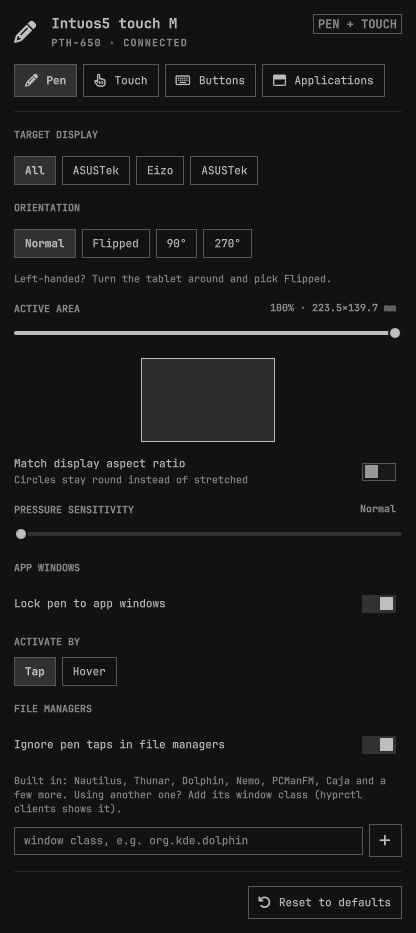
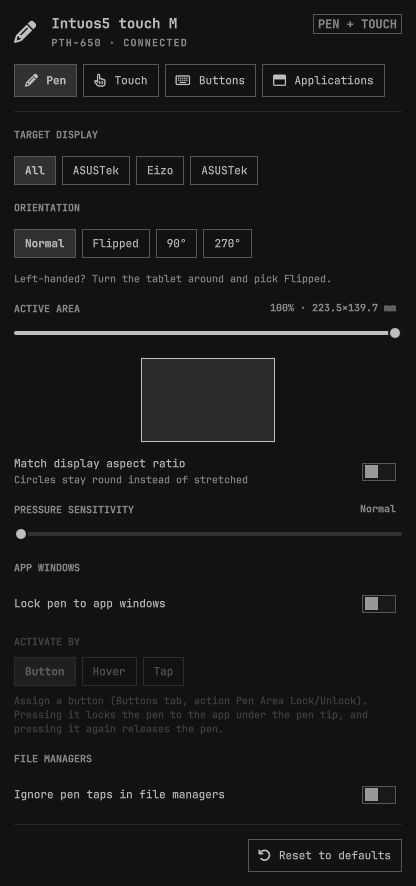
README: Button, Hover and Tap modes, new screenshots, 0.4.0 text

diff --git a/README.md b/README.md
@@ -51,8 +51,8 @@ alt="Applications tab" width="180"></a><br>
   a scale preview, crop to the display's aspect ratio so circles stay round,
   pressure sensitivity.
 - **Orientation** – *Flipped* turns the pen, finger touch and the key order
-  around for left-handed use (libinput's left-handed mode). 90° and 270° turn
-  the pen only.
+  around for left-handed use. *90°* and *270°* hold the tablet portrait: pen,
+  finger touch and key order all turn with it, and palm rejection keeps working.
 - **Touch** – finger touch on/off (handy while drawing), pointer speed, tap to
   click, natural scrolling.
 - **Buttons** – remap the pen side buttons and the ExpressKeys to a click, a
@@ -79,28 +79,41 @@ alt="Applications tab" width="180"></a><br>
   Changes apply instantly and survive reboots. Colours and fonts follow the
   current Omarchy theme.
 
-## App windows
+## APP WINDOWS
 
-Switch **Lock pen to app windows** on in the Pen tab and check the list of your drawing apps in the **Applications** tab.
+Switch **Lock pen to app windows** on in the Pen tab, then choose how the lock starts (see below). With **Hover** and **Tap**, also add your drawing apps in the **Applications** tab. **Button** works with any window, so it needs no list.
 
-<img src="ReadMe-Images/omarchy-tablet_MainTab_ApplicationSettings.jpg" alt="Pen tab: Lock pen to app windows and Activate by" width="416">
+<img src="ReadMe-Images/omarchy-tablet_AppWindows-Button.jpg" alt="Pen tab: Lock pen to app windows and Activate by clicking/pressing the defined button on the pen, or the tablet" width="416">
 
-- **Activate by Tap** (the default): the first tap of the pen on a listed app
-  only activates the app. That tap never paints, selects or clicks; the next ones
-  do.
-- **Hover** locks as soon as the pen is hovering over the app, with no click, but
+- **Activate by Button** (the default): assign a tablet key or pen button to
+  **Pen Area Lock/Unlock** in the Buttons tab. Pressing it locks the pen to the
+  window under the pen tip, whether or not the app is in the list; pressing it
+  again releases the pen.
+
+<img src="ReadMe-Images/omarchy-tablet_AppWindows-Hover.jpg" alt="Pen tab: Lock pen to app windows and Activate by hovering over the target app" width="416">
+
+- **Hover** picks the app up as soon as the pen hovers over it, with no click, but
   passing over a listed app on the way somewhere else then locks the pen to it.
-- The pen is released when focus moves to another window (super+tab, the
-  mouse, closing the app).
-- **Pro Tip** To leave the lock mode, when you are using the pen alone, set a tablet key or pen button to **Pen area lock** in the Buttons tab: it releases the pen, and
-  pressing it locks the pen back onto the app in focus, when pressing it again.
-- While the pen is locked, a resized or moved window is followed.
-- The pointer jumps once when the lock engages, from where the pen was on the
-  desktop to the same spot on the tablet inside the window. 90° and 270° orientations don't lock yet.
+  Release the lock with the mouse, or with a button set to Pen Area Lock/Unlock.
 
-####   The Applications tab
+<img src="ReadMe-Images/omarchy-tablet_AppWindows-Tap.jpg" alt="Pen tab: Lock pen to app windows and Activate by tapping the target app (EXPERIMENTAL!!)" width="416">
 
-<img src="ReadMe-Images/omarchy-tablet_MainTab_ApplicationSettings-Short.jpg" alt="Applications tab: your apps and suggestions" width="416">
+- **Tap** (experimental): tap a listed app and the pen locks to it as soon as it
+  lifts. The tap itself still reaches the app, so it can draw a dot, or a line if
+  you start painting at once as the area changes.
+- **Attention**: The pen is only released when focus moves to another window by either using super+tab to tab to another window, moving the mouse to another window, clicking or pressing the defined button on the pen or the tablet, or closing the app.
+
+- **Pro Tip** To leave the lock mode, when you are using the pen alone, set a tablet key or pen button to **Pen Area Lock/Unlock** in the Buttons tab: it releases the pen, and pressing it again locks the pen back onto the app in focus.
+
+**General Notes**
+- While the pen is locked, a resized or moved window is followed and the pen motion is locked to that window.
+- The pointer jumps once when the lock engages, from where the pen was on the desktop to the same spot on the tablet inside the window. 90° and 270° orientations don't lock yet.
+
+### The Applications tab
+
+The list is used by **Hover** and **Tap**. In **Button** mode the tab is greyed out, because the button locks whichever window is under the pen.
+
+<img src="ReadMe-Images/omarchy-tablet_ApplicationsTab-Short.jpg" alt="Applications tab: your apps and suggestions" width="416">
 
 - **Scan for apps** lists the installed drawing apps (the Graphics category of
   the app launcher). Add the ones you use, or dismiss the ones you don't want
@@ -111,7 +124,7 @@ Switch **Lock pen to app windows** on in the Pen tab and check the list of your 
 - **Add an open window** takes the window class from a window that is open now, which is the sure way for apps whose launcher doesn't name their class.
 - A window class can also be typed in. In a console find the app name using `hyprctl clients`.
 
-### File managers
+## FILE MANAGERS
 
 <img src="ReadMe-Images/omarchy-tablet_MainTab_FileManagerSettings.jpg" alt="Ignore pen taps in file managers" width="416">
 
@@ -123,14 +136,14 @@ It works on its own, with or without the lock.
 
 In a console find the app name using `hyprctl clients`.
 
-### Settings in `tablet.json`
+## Settings in `tablet.json`
 
 All of this is set from the panel; the keys are listed for scripting.
 
 | Key                     | Meaning                                                              |
 | :----------------------- | :-------------------------------------------------------------------- |
 | `areaLock`              | Lock the pen to the windows of the apps below.                       |
-| `areaActivate`          | `"tap"` (default) or `"hover"`.                                      |
+| `areaActivate`          | `"button"` (default), `"hover"` or `"tap"`.                          |
 | `apps`                  | Window class → `{"mode": "window"}`. Matched without regard to case. |
 | `ignoredApps`           | Classes the app scan no longer suggests.                             |
 | `ignoreFileManagerTaps` | Drop the pen tip's click in file managers.                           |
@@ -144,18 +157,24 @@ support, key codes and key layout come from **libwacom**, already installed on
 every Omarchy system as a libinput dependency; the active-area size comes from
 the driver.
 
-| Family                       | Models                                                      | Notes                                                                                               |
-| :---------------------------- | :----------------------------------------------------------- | :--------------------------------------------------------------------------------------------------- |
-| Bamboo Pen & Touch, Fun, SE  | CTH-460/461/661 and (A)/SE variants                         | **Tested on a CTH-460(A).** 4 keys, touch                                                           |
-| Bamboo Capture, Create, 16FG | CTH-470/670, CTT-470                                        | 4 keys, touch                                                                                       |
-| Bamboo Touch                 | CTT-460/460(A)                                              | touch and keys, no pen                                                                              |
-| Bamboo Pen, Connect, One     | CTL-460/660/470, CTF-430, CTE-660                           | pen only                                                                                            |
-| Bamboo Fun / Pen (older)     | CTE-450/650, MTE-450                                        | 4 keys along the top                                                                                |
-| Bamboo Pad                   | CTH-300/301                                                 | 2 keys, touch                                                                                       |
-| Intuos S/M, One by Wacom     | CTL/CTH-480/490/680/690, CTL-4100/6100, CTL-471/472/671/672 | Intuos Pen & Touch 1st/2nd gen: run **Identify keys** once, libwacom doesn't record their key order |
+✅ = confirmed working on real hardware · ☐ = should work (checked against
+libwacom's data and with virtual devices), not tried yet
 
-Only the CTH-460(A) has been tried on real hardware; the others were checked
-against libwacom's data and with virtual devices. Reports are welcome.
+| | Family | Models | Notes |
+|---|---|---|---|
+| ✅ | Bamboo Pen & Touch, Fun, SE | CTH-460/461/661 and (A)/SE variants | CTH-460(A), the author's tablet: pen, touch, 4 keys, every orientation |
+| ✅ | Intuos5 | PTH-650 | [Reported by a user](https://github.com/mug31/omarchy-tablet/issues/1): every key recognised. 8 keys, touch; the touch ring isn't handled |
+| ☐ | Bamboo Capture, Create, 16FG | CTH-470/670, CTT-470 | 4 keys, touch |
+| ☐ | Bamboo Touch | CTT-460/460(A) | touch and keys, no pen |
+| ☐ | Bamboo Pen, Connect, One | CTL-460/660/470, CTF-430, CTE-660 | pen only |
+| ☐ | Bamboo Fun / Pen (older) | CTE-450/650, MTE-450 | 4 keys along the top |
+| ☐ | Bamboo Pad | CTH-300/301 | 2 keys, touch |
+| ☐ | Intuos S/M, One by Wacom | CTL/CTH-480/490/680/690, CTL-4100/6100, CTL-471/472/671/672 | Intuos Pen & Touch 1st/2nd gen: run **Identify keys** once, libwacom doesn't record their key order |
+
+Got it working on a model not ticked here, or found one that doesn't?
+[Open an issue](https://github.com/mug31/omarchy-tablet/issues) with the model
+number and it'll be added.
+
 Huion, XP-Pen and other brands use different drivers and are not supported.
 Touch rings and strips on pads are not handled.
 
@@ -173,7 +192,7 @@ Touch rings and strips on pads are not handled.
   sudo modprobe wacom                                          # then replug the tablet
   ```
 
-- `python-evdev` for button remapping: `omarchy pkg add python-evdev`.
+Nothing else to install: the widget only uses Python's standard library.
 
 ## Install
 
@@ -181,29 +200,38 @@ Touch rings and strips on pads are not handled.
 omarchy plugin add https://github.com/mug31/omarchy-tablet.git --enable
 ```
 
-Open the pencil icon in the bar and press **Finish setup** once. Setup:
+That's it: there is no setup step and the Hyprland config is never edited.
 
-1. writes `~/.config/hypr/tablet.lua` and adds `require("hypr.tablet")` to
-   `~/.config/hypr/hyprland.lua` (after `require("hypr.input")`);
-2. installs and starts the `tablet-buttons` systemd user service.
+**Button remapping and portrait** need to grab the tablet and create virtual
+input devices, which a stock Omarchy keeps to root. If so, the panel shows
+**Enable**: it asks for your password once (pkexec) and installs
+`/etc/udev/rules.d/70-omarchy-wacom-bamboo.rules`, which gives the logged-in
+user access to `/dev/uinput` and to Wacom tablets only. It takes effect
+straight away, without logging out.
 
-Updating from 0.1: button mappings are carried over automatically.
+**Updating from 0.3 or older** happens on its own the first time the bar
+loads 0.4: the `require("hypr.tablet")` line is removed from
+`hyprland.lua` (the old file is kept as `hyprland.lua.wacom-bamboo.bak`),
+`tablet.lua` becomes `tablet.lua.bak`, and the `tablet-buttons` systemd
+service is stopped and its unit kept as `tablet-buttons.service.bak`.
+Settings and button mappings carry over.
 
 ## How it works
 
-| Piece                | Role                                                                                                                                                                                                                                                                                                                                                                                                                                                                                                       |
-| :-------------------- | :---------------------------------------------------------------------------------------------------------------------------------------------------------------------------------------------------------------------------------------------------------------------------------------------------------------------------------------------------------------------------------------------------------------------------------------------------------------------------------------------------------- |
-| `Panel.qml`          | The bar icon and panel. Every change is sent to `bin/tablet-ctl`n.                                                                                                                                                                                                                                                                                                                                                                                                                                          |
-| `bin/tabletlib.py`   | Finds the tablet in `/proc/bus/input/devices` and reads its libwacom entry and layout.                                                                                                                                                                                                                                                                                                                                                                                                                     |
-| `bin/tablet-ctl`     | Saves settings to `~/.config/omarchy/tablet.json`, generates `~/.config/hypr/tablet.lua`, reloads Hyprland.                                                                                                                                                                                                                                                                                                                                                                                                |
-| `bin/tabletarea.py`  | Runs inside the `tablet-buttons` service. Follows Hyprland's event socket and, for a listed app, maps the pen onto its window with `region_position` / `region_size`, using the part of the tablet that has the window's aspect ratio; releases it again when focus leaves. Also reads the installed launchers for the app scan.                                                                                                                                                                           |
-| `bin/tablet-buttons` | User service. While any ExpressKey is remapped it grabs the pad and runs the actions through a virtual keyboard and mouse; keys left on App default are replayed through a virtual pad of the same name, so apps still see them. With every key on App default the pad isn't touched. The pen is only grabbed while a side button is remapped, tap activation is on, or taps in file managers are ignored; it is then replayed through a virtual clone (`… Pen Remap`), so pressure and tilt keep working. |
+| Piece | Role |
+| :--- | :--- |
+| `Panel.qml` | The bar icon and panel. Every change is sent to `bin/tablet-ctl`. |
+| `bin/tabletlib.py` | Finds the tablet in `/proc/bus/input/devices` and reads its libwacom entry and layout. |
+| `bin/tablet-ctl` | Saves settings to `~/.config/omarchy/tablet.json` and sends them to Hyprland with `hyprctl eval`. |
+| `bin/tabletarea.py` | Runs inside `tablet-buttons`. Follows Hyprland's event socket and maps the pen onto a window with `region_position` / `region_size`, using the part of the tablet that has the window's aspect ratio. In Button mode that is the window under the pen; in Hover and Tap mode it is a listed app. Releases the pen when focus leaves. Also reads the installed launchers for the app scan. |
+| `bin/tablet-buttons` | Helper the panel keeps running (one per session; extra bars wait their turn). Re-applies the settings when the session starts, the tablet is plugged in, Hyprland reloads its config or a monitor changes. While any ExpressKey is remapped it grabs the pad and runs the actions through a virtual keyboard and mouse; keys left on App default are replayed through a virtual pad of the same name, so apps still see them. The pen is grabbed while a side button is remapped, the tablet is portrait or taps in file managers are ignored, and replayed through a virtual clone (`… Pen Remap`) so pressure and tilt keep working; in portrait the finger touch is replayed turned (`… Finger Rotated`). Log: `~/.cache/omarchy-tablet/tablet-buttons.log`. |
+| `bin/evio.py` | Minimal evdev/uinput access (reading, grabbing, virtual devices) from the standard library. |
 
-The pen's pressure arrives before its touch in the same frame, so the service
-looks at a whole frame before deciding whether to swallow a tap.
+The pen's pressure arrives before its touch in the same frame, so the helper
+looks at a whole frame before deciding whether to drop a tap in a file manager.
 
-`tablet.lua` is generated: change settings from the panel, not by hand. The
-app and file-manager settings don't appear in it: only the service reads them.
+The app and file-manager settings are only read by `tablet-buttons`; changing
+them sends nothing to Hyprland.
 
 `python3 -m unittest discover tests` runs the checks for the window and
 launcher maths.
@@ -214,12 +242,13 @@ notification, so it can go on a tablet button or a Hyprland keybinding.
 ## Uninstall
 
 ```bash
-systemctl --user disable --now tablet-buttons.service
-rm ~/.config/systemd/user/tablet-buttons.service
-sed -i '/require("hypr.tablet")/d' ~/.config/hypr/hyprland.lua
-rm ~/.config/hypr/tablet.lua ~/.config/omarchy/tablet.json
 omarchy plugin remove io.github.mug31.wacom-bamboo
+rm ~/.config/omarchy/tablet.json                            # saved settings
+sudo rm /etc/udev/rules.d/70-omarchy-wacom-bamboo.rules     # only if you pressed Enable
 ```
+
+The settings were only ever applied at runtime, so they are gone after the
+next Hyprland reload or login.
 
 ## License
 
